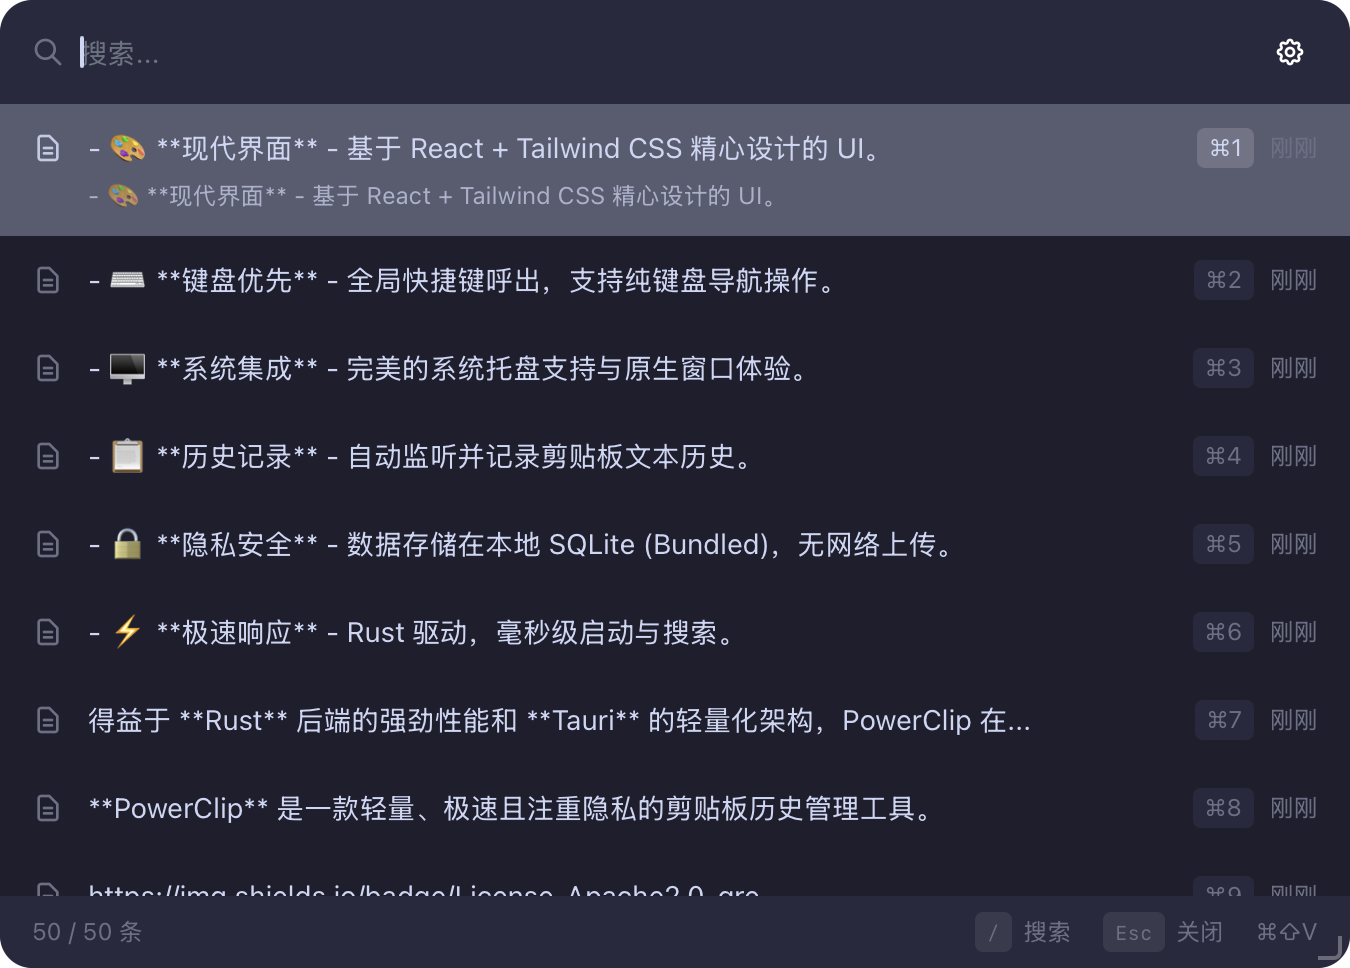
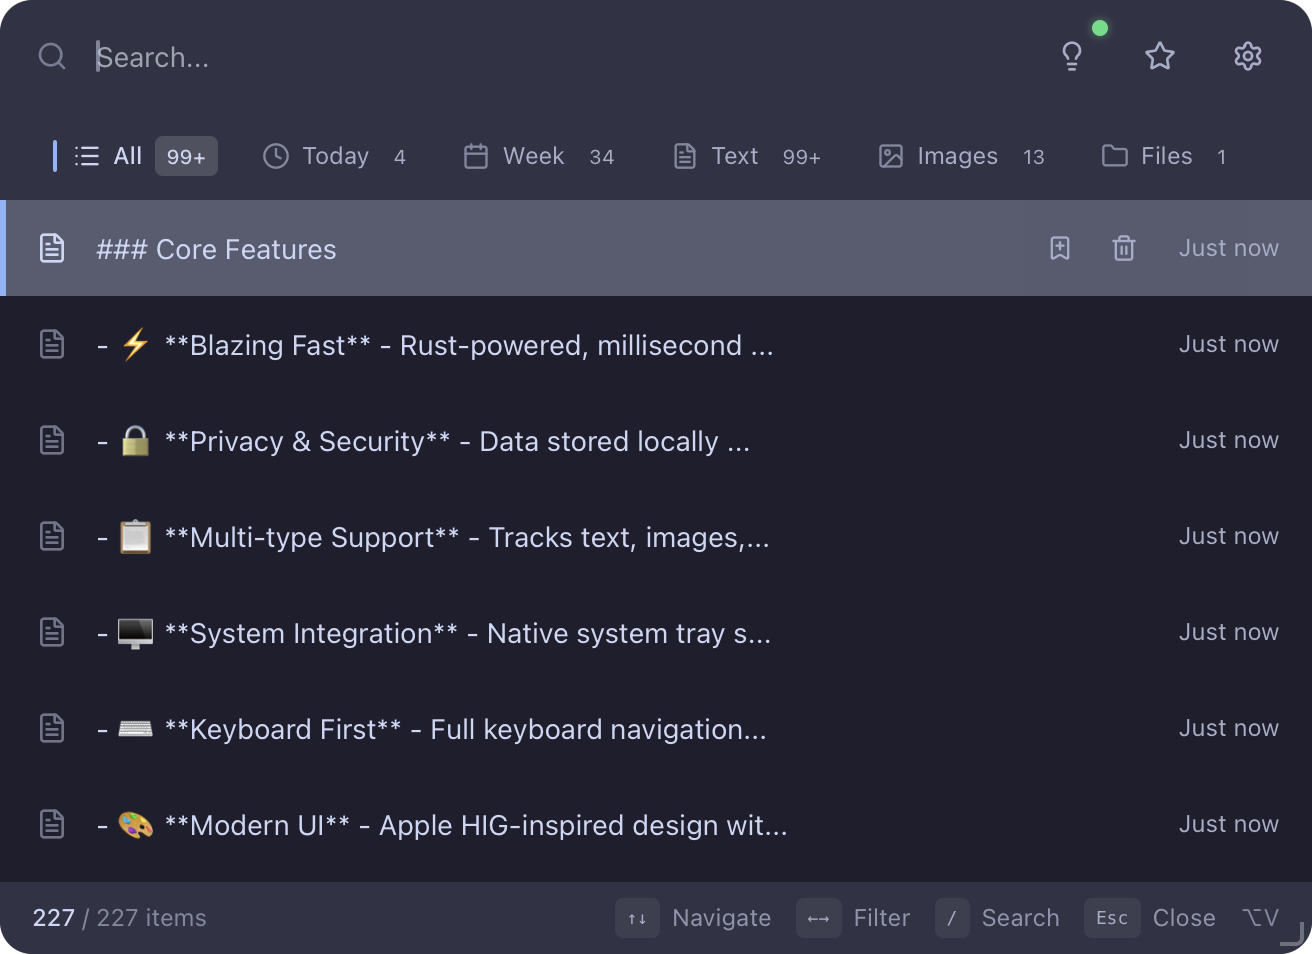
docs: update README.md

diff --git a/README.md b/README.md
@@ -3,7 +3,7 @@
 </p>
 
 <p align="center">
-  <strong>A modern clipboard manager built with Rust & Tauri 2.0</strong>
+  <strong>A modern, privacy-focused clipboard manager with AI-powered search</strong>
 </p>
 
 <p align="center">
@@ -17,6 +17,7 @@
   <a href="#features">Features</a> •
   <a href="#installation">Installation</a> •
   <a href="#keyboard-shortcuts">Keyboard Shortcuts</a> •
+  <a href="#configuration">Configuration</a> •
   <a href="#development">Development</a>
 </p>
 
@@ -26,94 +27,201 @@
 
 <br/>
 
-
-
 ## 📖 Introduction
 
-**PowerClip** is a lightweight, fast, and privacy-focused clipboard history manager.
+**PowerClip** is a lightweight, fast, and privacy-focused clipboard history manager with AI-powered semantic search capabilities.
 
-Powered by **Rust** backend performance and **Tauri** lightweight architecture, PowerClip provides a smooth experience while consuming minimal system resources. All data is stored locally in a SQLite database, ensuring security and control.
+Powered by **Rust** backend performance and **Tauri 2.0** lightweight architecture, PowerClip provides a smooth experience while consuming minimal system resources. All data is stored locally in a SQLite database, ensuring your clipboard history stays private and under your control.
 
 ## ✨ Features
 
-- ⚡ **Blazing Fast** - Rust-powered, millisecond startup and search.
-- 🔒 **Privacy & Security** - Data stored locally in SQLite (Bundled), no network uploads.
-- 📋 **History Tracking** - Automatically monitors and records clipboard text history.
-- 🖥 **System Integration** - Perfect system tray support and native window experience.
-- ⌨ **Keyboard First** - Global hotkey to summon, supports full keyboard navigation.
-- 🎨 **Modern UI** - Carefully designed interface with React + Tailwind CSS.
-- 🔍 **Smart Search** - Embedding-based natural language search
+### Core Features
 
-![alt text](image/embedding_search.png)
+- ⚡ **Blazing Fast** - Rust-powered, millisecond startup and search
+- 🔒 **Privacy & Security** - Data stored locally in SQLite, no network uploads required
+- 📋 **Multi-type Support** - Tracks text, images, and file references
+- 🖥 **System Integration** - Native system tray support and window experience
+- ⌨ **Keyboard First** - Full keyboard navigation with customizable global hotkeys
+- 🎨 **Modern UI** - Apple HIG-inspired design with smooth animations
+
+### Smart Features
+
+- 🔍 **AI Semantic Search** - Find clipboard items using natural language queries (supports OpenAI-compatible embedding APIs)
+- ⭐ **Quick Commands** - Save frequently used snippets with custom aliases for instant access
+- 🏷 **Smart Lists** - Filter history by type (Text/Image/File) or time period (Today/This Week)
+- 🔌 **Extensions System** - Run shell commands on clipboard content with custom pipelines
+- 📌 **Auto-paste** - Optionally paste content automatically after selection
+
+### Advanced Features
+
+- ⚙ **Hot-reloadable Config** - Change settings without restarting the app
+- 🪟 **Resizable & Draggable** - Window position and size are remembered
+- 🌙 **Transparent Window** - Adjustable window opacity for seamless desktop integration
 
 ## ⌨ Keyboard Shortcuts
 
-### Global Operations
+### Global Hotkeys
 
-| OS | Toggle Window |
-| :--- | :--- |
-| **macOS** | `Cmd` + `Shift` + `V` |
-| **Windows / Linux** | `Ctrl` + `Shift` + `V` |
+| Action | macOS | Windows / Linux |
+| :--- | :--- | :--- |
+| Toggle window | `Cmd` + `Shift` + `V` | `Ctrl` + `Shift` + `V` |
+| Add clipboard to Quick Commands | `Cmd` + `Shift` + `S` | `Ctrl` + `Shift` + `S` |
 
-Tip: Hotkey is customizable
+> Note: Windows uses `Ctrl` instead of `Cmd`.
 
-### In-Window Operations
+> All hotkeys are customizable in the settings file.
+
+### In-Window Navigation
 
 | Key | Action |
 | :--- | :--- |
 | `↑` / `↓` | Navigate through history |
-| `Enter` | Copy selected item and paste |
+| `←` / `→` | Switch filter tabs (history) / Toggle views |
+| `Enter` | Copy selected item (and paste if enabled) |
+| `Tab` | Open extension selector (on selected item) |
+| `/` | Focus search input |
 | `Esc` | Close window |
-| `cmd(ctrl) + ,`| Open config file |
+| `Cmd/Ctrl` + `P` | Toggle between History and Quick Commands |
+| `Cmd/Ctrl` + `,` | Open config file in editor |
+
+## 🔧 Configuration
+
+PowerClip uses a JSON configuration file for all settings. Press `Cmd/Ctrl` + `,` to open it in your default editor.
+
+### Configuration Location
+
+- **macOS**: `~/Library/Application Support/PowerClip/settings.json`
+- **Windows**: `%APPDATA%/PowerClip/settings.json`
+
+### Example Configuration
+
+```json
+{
+  "auto_cleanup_enabled": false,
+  "max_items": 100,
+  "hotkey_modifiers": "Meta+Shift",
+  "hotkey_key": "KeyV",
+  "window_opacity": 0.95,
+  "auto_paste_enabled": false,
+  "semantic_search_enabled": false,
+  "embedding_api_url": "https://api.openai.com/v1",
+  "embedding_api_key": "sk-...",
+  "embedding_api_model": "text-embedding-3-small",
+  "embedding_api_dim": 256,
+  "add_to_snippets_hotkey_enabled": true,
+  "add_to_snippets_hotkey_modifiers": "Meta+Shift",
+  "add_to_snippets_hotkey_key": "KeyS",
+  "extensions": [
+    {
+      "name": "Uppercase",
+      "command": "tr '[:lower:]' '[:upper:]'",
+      "timeout": 5000,
+      "close_on_success": true
+    }
+  ]
+}
+```
+
+### Key Settings
+
+| Setting | Description | Default |
+| :--- | :--- | :--- |
+| `max_items` | Maximum history items to keep | `100` |
+| `auto_paste_enabled` | Auto-paste after selection | `false` |
+| `semantic_search_enabled` | Enable AI-powered search | `false` |
+| `embedding_api_url` | OpenAI-compatible API URL | - |
+| `embedding_api_key` | API key for embedding service | - |
+| `extensions` | List of shell command extensions | `[]` |
+
+## 🤖 AI Semantic Search
+
+PowerClip supports natural language search through embedding APIs. To enable:
+
+1. Set `semantic_search_enabled` to `true` in settings
+2. Configure your embedding API credentials:
+   - `embedding_api_url`: Any OpenAI-compatible endpoint
+   - `embedding_api_key`: Your API key
+   - `embedding_api_model`: Model name (e.g., `text-embedding-3-small`)
+   - `embedding_api_dim`: Embedding dimension (typically 256-1536)
+
+3. Save the config file - indexing will start automatically
+
+Compatible with OpenAI, Azure OpenAI, and any OpenAI-compatible embedding services.
+
+## 🔌 Extensions
+
+Extensions allow you to process clipboard content through shell commands. When you select an item and press `Tab`, you can choose an extension to run.
+
+### Extension Configuration
+
+```json
+{
+  "extensions": [
+    {
+      "name": "JSON Format",
+      "command": "python3 -m json.tool",
+      "timeout": 5000,
+      "close_on_success": true
+    },
+    {
+      "name": "Base64 Encode",
+      "command": "base64",
+      "timeout": 3000,
+      "close_on_success": false
+    }
+  ]
+}
+```
+
+- **name**: Display name in the extension selector
+- **command**: Shell command to run (clipboard content via stdin)
+- **timeout**: Maximum execution time in milliseconds
+- **close_on_success**: Whether to close the window after successful execution
 
 ## 🛠 Tech Stack
 
-PowerClip uses cutting-edge cross-platform development technologies:
+PowerClip is built with modern, cross-platform technologies:
 
-* **Core**: [Rust](https://www.rust-lang.org/) & [Tauri 2.0](https://v2.tauri.app/)
-* **Frontend**: [React](https://react.dev/) + TypeScript
-* **Styling**: [Tailwind CSS](https://tailwindcss.com/)
-* **Database**: SQLite (local storage)
-* **Runtime**: [Bun](https://bun.sh/) (build tool)
+| Layer | Technology |
+| :--- | :--- |
+| **Core** | [Rust](https://www.rust-lang.org/) & [Tauri 2.0](https://v2.tauri.app/) |
+| **Frontend** | [React 18](https://react.dev/) + TypeScript |
+| **Styling** | [Tailwind CSS](https://tailwindcss.com/) |
+| **Database** | SQLite (bundled, local storage) |
+| **Build** | [Bun](https://bun.sh/) |
 
 ## 💻 Development
 
-If you want to run locally or contribute, ensure your environment meets these requirements:
-
 ### Prerequisites
 
-- **OS**: macOS 10.15+, Windows 10+, or Linux
-- **Rust**: 1.70+
-- **Node.js / Bun**: Bun 1.0+ recommended
+- **OS**: macOS 10.15+ or Windows 10+
+- **Rust**: 1.70+ (install via [rustup](https://rustup.rs/))
+- **Bun**: 1.0+ recommended (install via [bun.sh](https://bun.sh))
 
 ### Getting Started
 
-1. **Clone the project**
+1. **Clone the repository**
 
 ```bash
-git clone [https://github.com/Skyminers/PowerClip.git](https://github.com/Skyminers/PowerClip.git)
-cd power-clip
+git clone https://github.com/Skyminers/PowerClip.git
+cd PowerClip
 ```
 
 2. **Install dependencies**
-```bash
-# Install frontend dependencies (bun recommended, npm/pnpm/yarn also work)
-bun install
 
-# Download Rust dependencies
-cd src-tauri
-cargo fetch
+```bash
+cd frontend
+bun install
 cd ..
 ```
 
-
 3. **Run development mode**
+
 ```bash
-# This starts both frontend server and Tauri window with hot reload
 bun tauri dev
 ```
 
-
+This starts both the frontend dev server and Tauri window with hot reload.
 
 ### Build for Release
 
@@ -121,7 +229,31 @@ bun tauri dev
 bun tauri build
 ```
 
-Build artifacts will be located in `src-tauri/target/release/bundle`.
+Build artifacts will be located in `src-tauri/target/release/bundle/`.
+
+### Project Structure
+
+```
+PowerClip/
+├── src-tauri/           # Rust backend
+│   ├── src/
+│   │   ├── main.rs      # Application entry point
+│   │   ├── commands/    # Tauri command handlers
+│   │   ├── db/          # Database operations
+│   │   ├── semantic/    # AI search implementation
+│   │   ├── clipboard/   # Clipboard monitoring
+│   │   ├── hotkey/      # Global hotkey handling
+│   │   └── window/      # Window management
+│   └── tauri.conf.json  # Tauri configuration
+├── frontend/            # React frontend
+│   ├── src/
+│   │   ├── components/  # UI components
+│   │   ├── hooks/       # React hooks
+│   │   ├── utils/       # Utility functions
+│   │   └── App.tsx      # Main application
+│   └── package.json
+└── README.md
+```
 
 ## 📄 License
 
